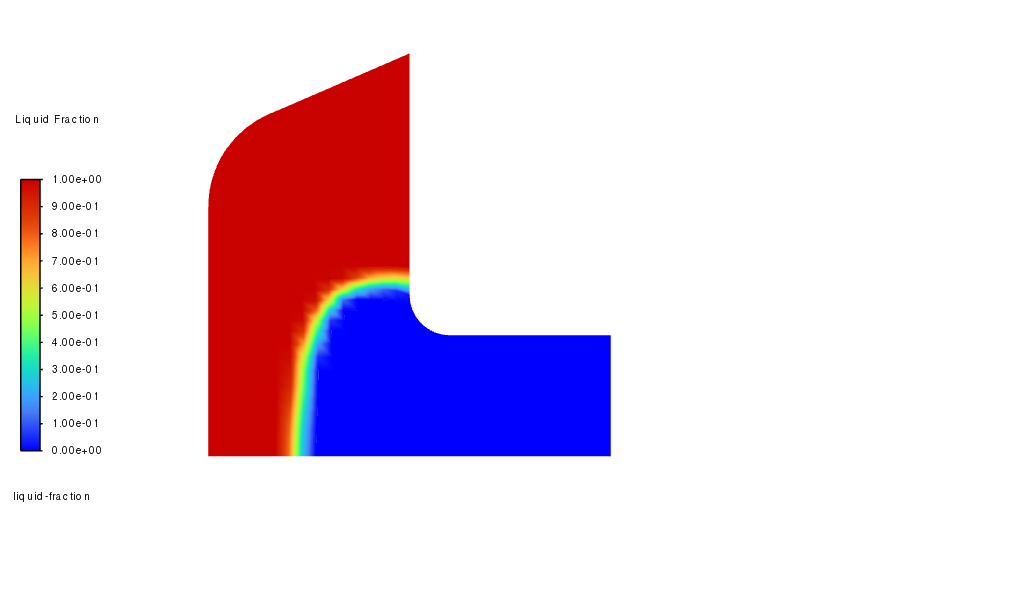
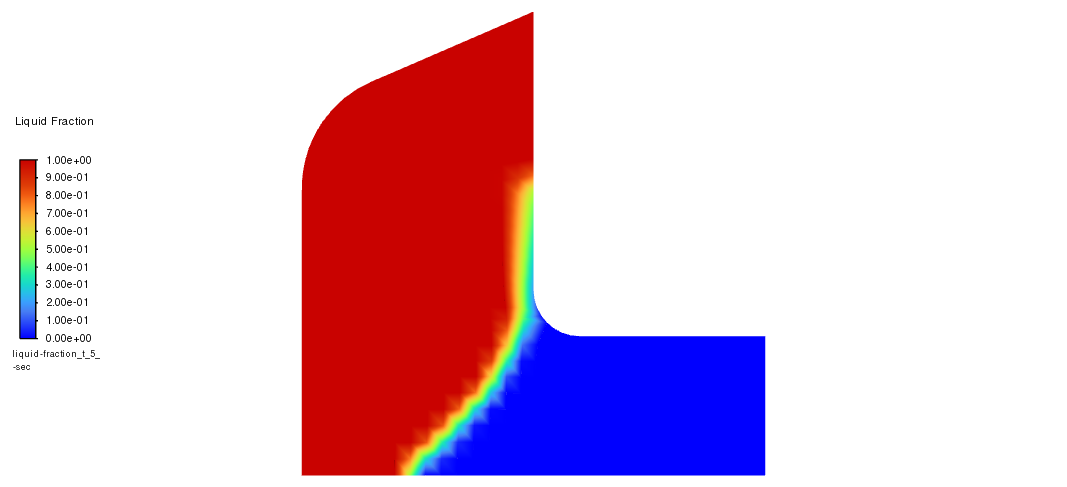
Update modeling solidification workflow and static image

diff --git a/examples/00-fluent/Modeling_solidification_workflow.py b/examples/00-fluent/Modeling_solidification_workflow.py
@@ -93,6 +93,7 @@ from ansys.fluent.core.solver import (
     Methods,
     Results,
     RunCalculation,
+    Scene,
     Setup,
     Solution,
     VelocityInlet,
@@ -344,7 +345,10 @@ mushy_temp.range_option = {
     "option": "auto-range-off",
     "auto_range_off": {"clip_to_range": True, "minimum": 1100, "maximum": 1200},
 }
-mushy_temp.display()
+scene = Scene(solver, new_instance_name="scene-1")
+scene.graphics_objects.add(name="mesh-1")
+scene.graphics_objects.add(name="temperature-mushy")
+scene.display()
 
 graphics.views.restore_view(view_name="front")
 graphics.picture.save_picture(file_name="modeling_solidification_3.png")
@@ -362,6 +366,7 @@ solver.settings.file.write_case_data(file_name="steady_state")
 # %%
 # Enable transient flow and heat transfer
 # ---------------------------------------
+solver.settings.file.read_case_data(file_name="steady_state")
 solver_general_settings.solver.time = "unsteady-1st-order"  # First-order implicit
 
 controls.equations = {"flow": True, "w-swirl": True}
@@ -396,7 +401,9 @@ solutions.run_calculation.transient_controls.time_step_count = 48
 solutions.run_calculation.calculate()
 
 # Liquid fraction at t = 5.0 s
-liquid_fraction_contour_t_5_sec = Contour(solver, new_instance_name="liquid-fraction")
+liquid_fraction_contour_t_5_sec = Contour(
+    solver, new_instance_name="liquid-fraction_t_5_sec"
+)
 
 liquid_fraction_contour_t_5_sec.field = "liquid-fraction"
 liquid_fraction_contour_t_5_sec.display()
